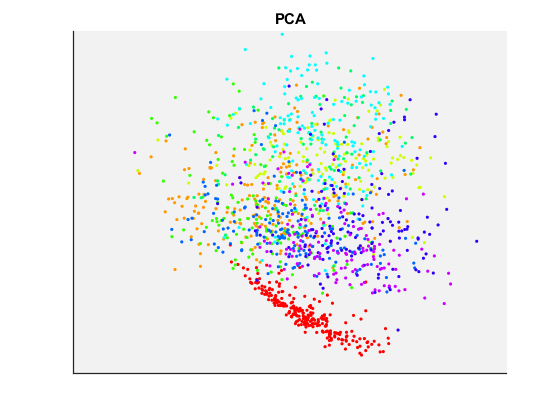
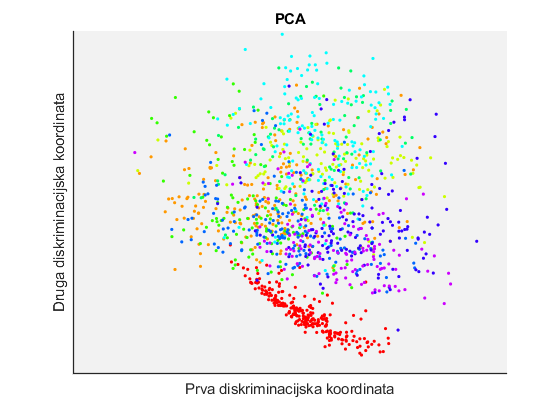
lge, pca

Changed region(s): [[0.3339, 0.8976, 0.6982, 0.9595], [0.0911, 0.2167, 0.1214, 0.7429]]

diff --git a/ExampleK.m b/ExampleK.m
@@ -34,7 +34,7 @@ ApplyTensorImage(X_train, y_train, U, V, 1, 2);
 ApplyTensorImage(X_train, y_train, U, V, 2, 1);
 
 
-PlotAccuracy(X_train, y_train, U, V, 2, 7, 10);
+PlotAccuracy(X_train, y_train, U, V, 2, 16, 10);
 
 % normalized cuts
 
@@ -52,3 +52,6 @@ ApplyNormCut(UsedMatrix, 10, y_train);
 
 
 PlotPCA(X_train, y_train)
+
+% [U, V, ~, ~, ~, Y] = TensorLGE(X_train, UsedMatrix);
+% xy = ApplyTensorImage(X_train, y_train, U, V, 13, 13); idx = kmeans(xy, 10); [Acc, ~, ~] = AccMeasure(y_train, idx)

diff --git a/Startup.m b/Startup.m
@@ -1,4 +1,4 @@
-cd("E:\PMF\4.godina\USPP\tenzor-image-clustering");
+cd("C:\Users\Kijotac\Desktop\Faks\5. godina\USPP\tenzor-image-clustering");
 
 addpath('external\progress')
 addpath('external\Deng Cai_Orthogonal Laplacianfaces for Face Recognition')

diff --git a/PlotPCA.m b/PlotPCA.m
@@ -15,4 +15,6 @@ function PlotPCA(X, y)
     
     PlotClusters(xy, y);
     title('PCA')
+    xlabel('Prva diskriminacijska koordinata')
+    ylabel('Druga diskriminacijska koordinata')
 end
